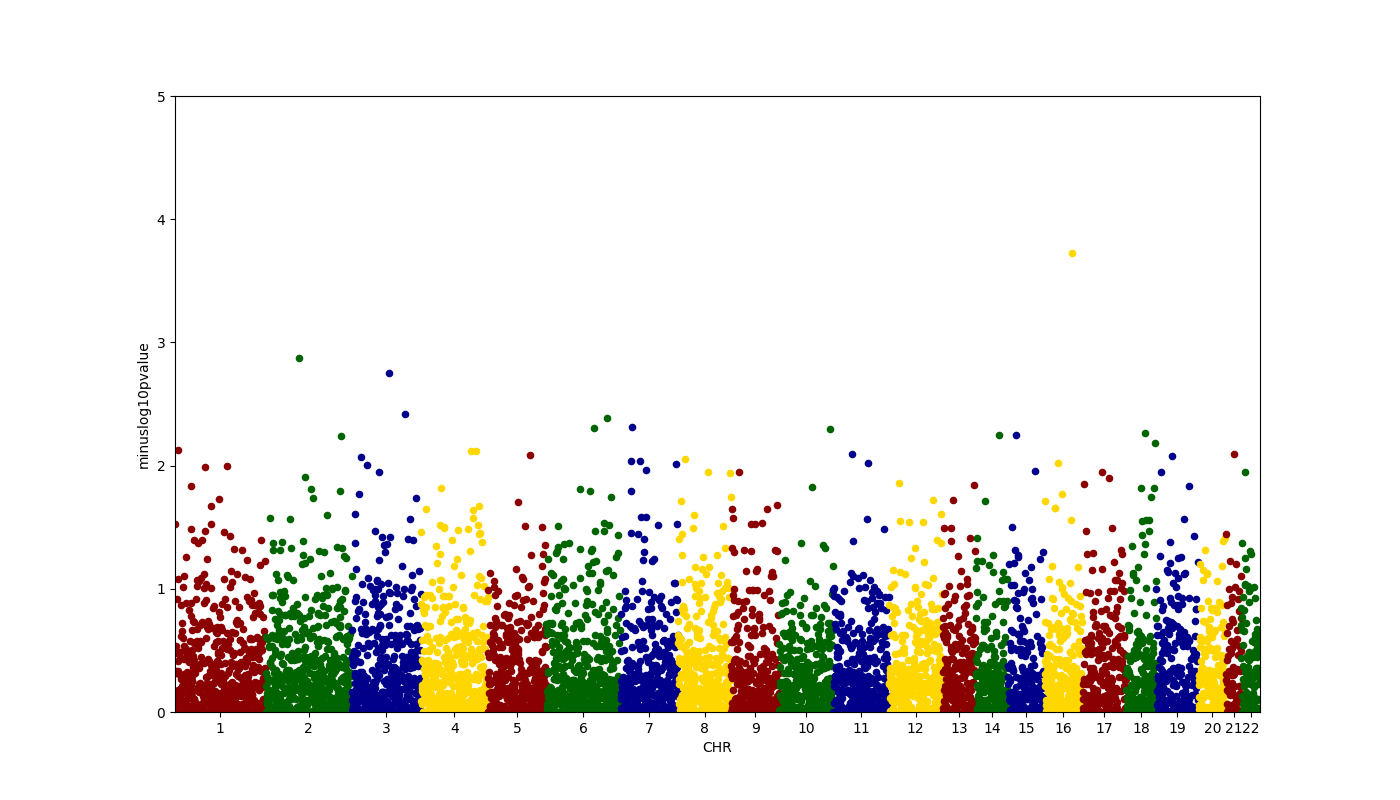
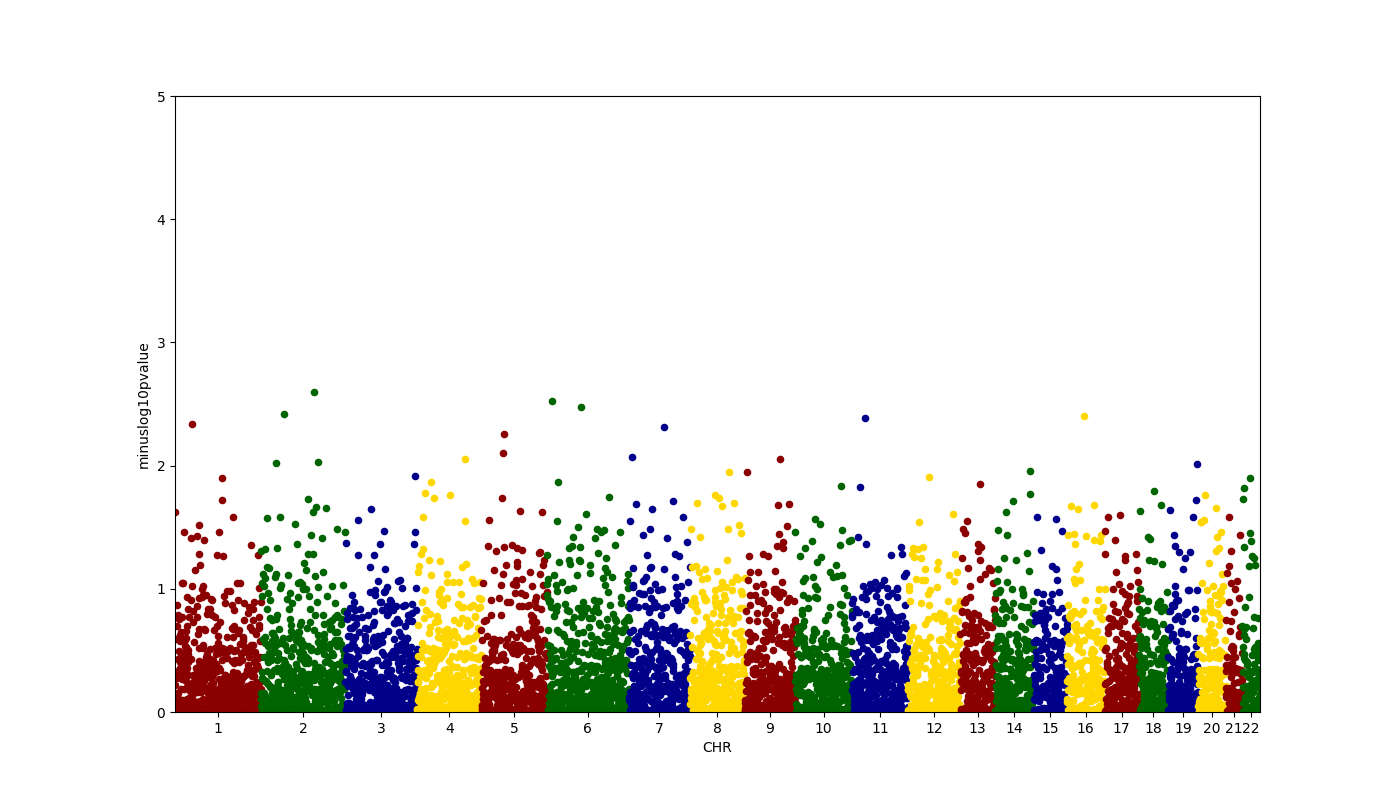
feat: qc추가 및 run_regression수정 ---------------------- qc 1.maf : 변화가 없는 유전형 탈락 2.geno : nan의개수가 과도한 유전형 탈락 3.hwe : 하인베르크 뭐시기에 부합하지 않는 유전형 탈락
run_regression 오류 수정 및 예외처리 제거

np.random.choice가 중복추출을 하는 오류 수정

diff --git a/utils/qualitycontrol.py b/utils/qualitycontrol.py
@@ -1,0 +1,47 @@
+from scipy.stats import chi2
+def qc_process(df):
+    df = df.drop(df.drop(['fid','iid'],axis=1).apply(qc_maf, axis=0).dropna().to_list(), axis=1)
+    df = df.drop(df.drop(['fid','iid'],axis=1).apply(qc_geno, axis=0).dropna().to_list(), axis=1)
+    df = df.drop(df.drop(['fid','iid'],axis=1).apply(qc_hwe, axis=0).dropna().to_list(), axis=1)
+    print(df)
+    return df
+
+def qc_maf(col):
+    """
+    Perform Minor Allele Frequency (MAF) test.
+    """
+    p = (col==2).sum() / len(col)
+    if p > 0.99:
+        return col.name
+
+def qc_geno(col):
+    """
+    perform genotype missingness test.
+    """
+    p = col.isnull().sum()/len(col)
+    if p > 0.05:
+        return col.name
+    
+def qc_hwe(col):
+    """
+    Perform Hardy-Weinberg Equilibrium (HWE) test using observed genotype counts.
+    
+    :param O11: Observed count of individuals with two copies of the alternate allele.
+    :param O12: Observed count of individuals with one copy of the alternate allele and one copy of the reference allele.
+    :param O22: Observed count of individuals with two copies of the reference allele.
+    
+    :return: Tuple containing the HWE test statistic and its p-value.
+    """
+
+    O11, O12, O22 = (col==2).sum(), (col==1).sum(), (col==0).sum()
+    N = O11 + O12 + O22
+    
+    E11 = ((O11*2 + O12) / (2*N))**2 * N
+    E22 = ((O12 + O22*2) / (2*N))**2 * N
+    E12 = 2*(O11*2 + O12) / (2*N) * (O12 + O22*2) / (2*N) * N
+    HWE = ((O11-E11)**2 / E11) + ((O12-E12)**2 / E12) + ((O22-O22)**2 / E22)
+    df = 1
+    
+    p_value = chi2.sf(HWE, df)
+    if p_value < 0.000001:
+        return col.name

diff --git a/main.py b/main.py
@@ -10,6 +10,8 @@ from regression import createPvalue
 from utils.resultStatistics import manhattan
 from utils.postprocess import merge_col, make_genotype_by_bed
 from pandas_plink import read_plink, read_plink1_bin, get_data_folder
+#qc library
+from utils.qualitycontrol import qc_process
 
 
 def get_args_parser():
@@ -19,7 +21,7 @@ def get_args_parser():
     parser.add_argument('--data_path', type=str, default='dataset')
     parser.add_argument('--full_dataset', default=False, action='store_true')
     parser.add_argument('--num_col', default=[5000, 10000, 15000], nargs='+')
-    
+
     # regression
     parser.add_argument('--mode', default='logistic')
 
@@ -41,22 +43,16 @@ def make_xy(args, df):
 def main(args):
     bim, fam, bed = read_plink(join(args.data_path, 'data')) #bim, fam, bed
 
-    ##########################
-    ##  이 부분에 qc 코드 추가  ##
-    ##########################
 
     full_sample_id = [fam['fid'].tolist(), fam['iid'].tolist()]
     full_snpid = bim['snp'].tolist()
-
     for num in tqdm(args.num_col):
         vcf_df = make_genotype_by_bed(bed, args.full_dataset, num, full_snpid, full_sample_id)
-
         # drop na
         vcf_df.replace([-9223372036854775808],[np.nan],inplace=True)
         vcf_df.dropna(axis=1, inplace=True)
-
+        vcf_df = qc_process(vcf_df)
         train_test_df = make_xy(args, vcf_df)
-    
         result_df = createPvalue(args, train_test_df, bim)
         
         if not args.no_manhattan:

diff --git a/regression/calc.py b/regression/calc.py
@@ -12,18 +12,11 @@ import statsmodels.api as sm
 def run_regression(model, row, df):
     X_data = df[['constant', row, 'sex', 'covar']]
     y_data = df['y']
-    if df.empty:
-        return np.nan
-    else:
-        #################################################
-        #####         이 부분 QC 구현되면 지우기         #####
-        #################################################
-        try:
-            m = model(y_data, X_data)
-            res = m.fit(disp=0, warn_convergence=False)
-            return res.pvalues[row]
-        except:
-            return 0
+       
+    m = model(y_data, X_data)
+    res = m.fit(disp=0, warn_convergence=False, method='bfgs')
+    return res.pvalues[row]
+        
     
 def createPvalue(args, df, bim):
     '''
@@ -45,7 +38,7 @@ def createPvalue(args, df, bim):
 
     # get list of resId
     resId = list(df.columns[0:-4])
-
+    print(len(resId))
     # calc p-value
     out = []
     if args.mode == 'linear':

diff --git a/utils/postprocess.py b/utils/postprocess.py
@@ -39,7 +39,7 @@ def make_genotype_by_bed(bed, full_dataset, num_col, full_snpid, full_sample_id)
     print("[Make data frame] Success!")
 
     if not full_dataset:
-        col = np.random.choice(full_snpid, num_col)
+        col = np.random.choice(full_snpid, num_col, replace = False)
         return vcf_df[[*col, 'fid', 'iid']]
 
     return vcf_df
